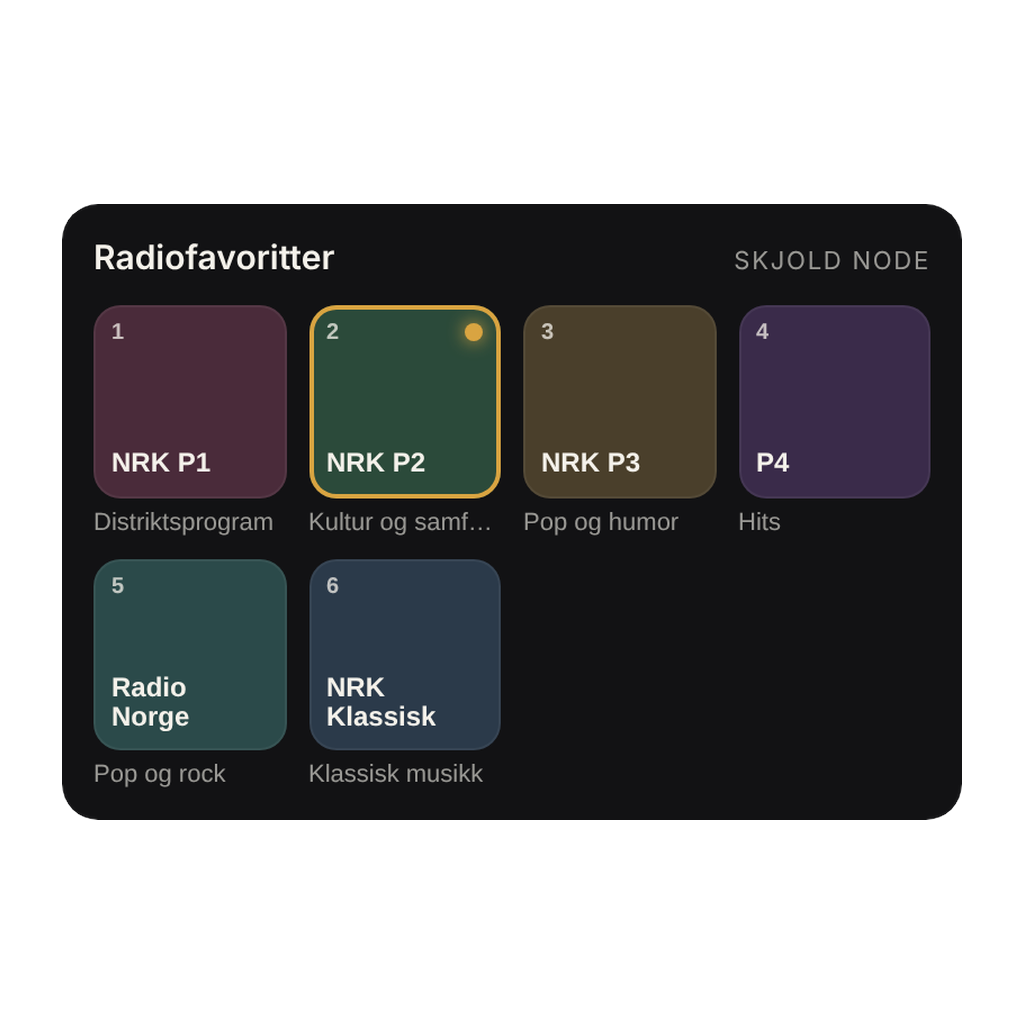
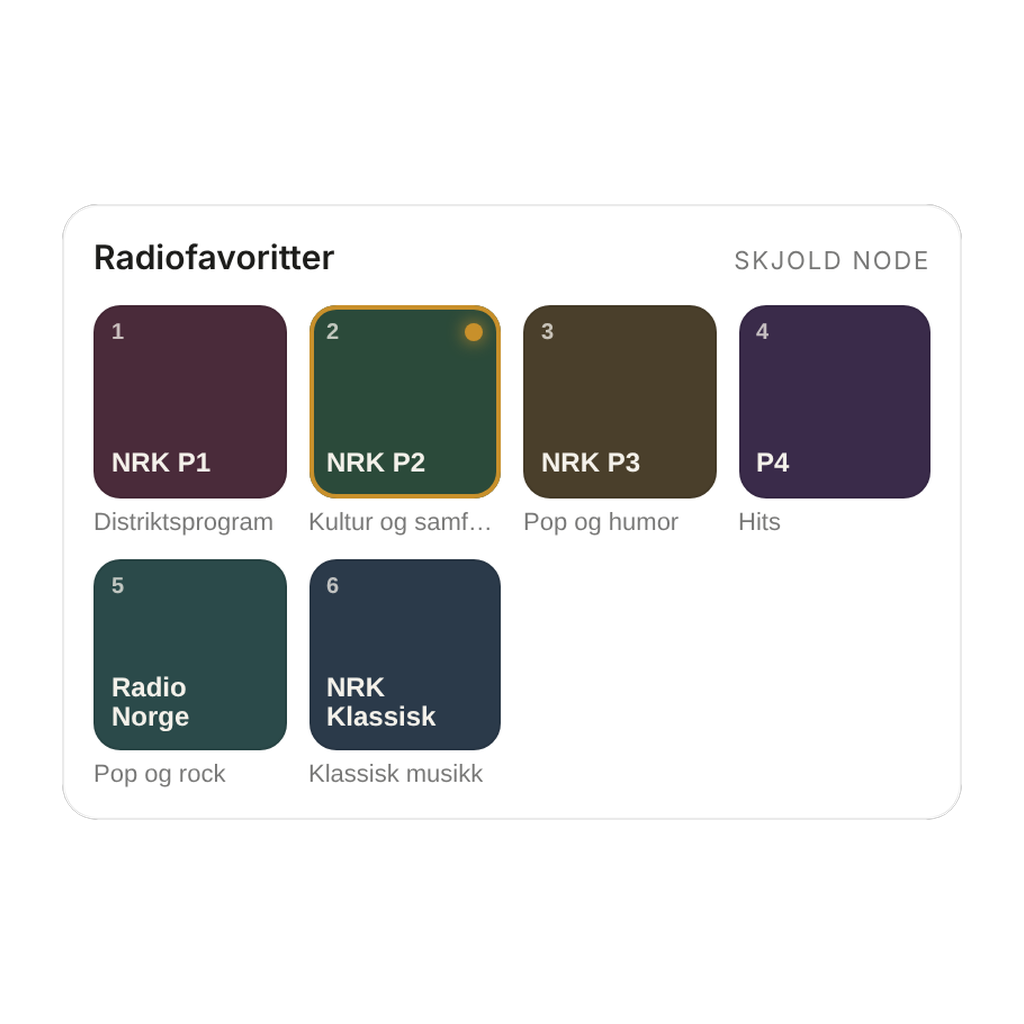
Homey 2.17.0: widgetene følger lyst/mørkt tema (egne forhåndsbilder), kort beskrivelse, nytt realistisk appbilde med S1, Node og Touch
Claude-Session: https://claude.ai/code/session_01FaJKmap7xh2tAyS84khbxV

diff --git a/homey/no.kristo.skjold/widgets/nowplaying/public/index.html b/homey/no.kristo.skjold/widgets/nowplaying/public/index.html
@@ -3,13 +3,19 @@
 <head>
 <meta charset="utf-8">
 <style>
-  :root { --acc: #d9a441; --ink: #f4f1ea; --mut: rgba(244,241,234,.62); }
+  /* Lyst og mørkt tema: Homey setter .homey-dark-mode; prefers-color-scheme som reserve. Homey-variabler brukes der de finnes. */
+  :root { --acc: #c8902b; --ink: #1d1d1b; --mut: rgba(29,29,27,.6); --card: var(--homey-background-color, #ffffff); --line: rgba(0,0,0,.08);
+          --art: #ece9e2; --track: rgba(0,0,0,.14); --veil: linear-gradient(90deg, rgba(255,255,255,.82), rgba(255,255,255,.6)); --bgfx: blur(28px) saturate(1.2) brightness(1.15); --pp-ink: #fff; --pp: #1d1d1b; }
+  @media (prefers-color-scheme: dark) { :root:not(.homey-light-mode) { --acc: #d9a441; --ink: #f4f1ea; --mut: rgba(244,241,234,.62); --card: var(--homey-background-color, #121214); --line: rgba(255,255,255,.06);
+          --art: #232326; --track: rgba(255,255,255,.18); --veil: linear-gradient(90deg, rgba(10,10,12,.55), rgba(10,10,12,.25)); --bgfx: blur(28px) saturate(1.3) brightness(.45); --pp-ink: #111; --pp: #f4f1ea; } }
+  .homey-dark-mode, .homey-dark-mode :root { --acc: #d9a441; --ink: #f4f1ea; --mut: rgba(244,241,234,.62); --card: var(--homey-background-color, #121214); --line: rgba(255,255,255,.06);
+          --art: #232326; --track: rgba(255,255,255,.18); --veil: linear-gradient(90deg, rgba(10,10,12,.55), rgba(10,10,12,.25)); --bgfx: blur(28px) saturate(1.3) brightness(.45); --pp-ink: #111; --pp: #f4f1ea; }
   * { box-sizing: border-box; margin: 0; }
   body { font-family: var(--homey-font-family, -apple-system, system-ui, sans-serif); color: var(--ink); }
-  .card { position: relative; overflow: hidden; border-radius: var(--homey-border-radius-default, 16px); height: 180px; background: #121214; padding: 14px; display: flex; gap: 14px; }
-  .bg { position: absolute; inset: -30px; background-size: cover; background-position: center; filter: blur(28px) saturate(1.3) brightness(.45); transform: scale(1.1); transition: background-image .4s; }
-  .bg::after { content: ''; position: absolute; inset: 0; background: linear-gradient(90deg, rgba(10,10,12,.55), rgba(10,10,12,.25)); }
-  .art { position: relative; flex: none; width: 152px; height: 152px; border-radius: 12px; background: #232326 center/cover no-repeat; box-shadow: 0 10px 28px rgba(0,0,0,.45); display: flex; align-items: center; justify-content: center; }
+  .card { position: relative; overflow: hidden; border-radius: var(--homey-border-radius-default, 16px); height: 180px; background: var(--card); box-shadow: inset 0 0 0 1px var(--line); padding: 14px; display: flex; gap: 14px; }
+  .bg { position: absolute; inset: -30px; background-size: cover; background-position: center; filter: var(--bgfx); transform: scale(1.1); transition: background-image .4s; }
+  .bg::after { content: ''; position: absolute; inset: 0; background: var(--veil); }
+  .art { position: relative; flex: none; width: 152px; height: 152px; border-radius: 12px; background: var(--art) center/cover no-repeat; box-shadow: 0 10px 28px rgba(0,0,0,.45); display: flex; align-items: center; justify-content: center; }
   .art svg { width: 54px; height: 54px; opacity: .5; }
   .col { position: relative; flex: 1; min-width: 0; display: flex; flex-direction: column; }
   .top { display: flex; align-items: center; gap: 8px; font-size: 11px; letter-spacing: .08em; text-transform: uppercase; color: var(--mut); }
@@ -21,10 +27,10 @@
   .ctl { margin-top: auto; display: flex; align-items: center; gap: 10px; }
   button { border: 0; background: none; color: var(--ink); cursor: pointer; padding: 0; display: flex; align-items: center; justify-content: center; -webkit-tap-highlight-color: transparent; }
   button:active { transform: scale(.94); }
-  .pp { width: 44px; height: 44px; border-radius: 50%; background: var(--ink); color: #111; }
+  .pp { width: 44px; height: 44px; border-radius: 50%; background: var(--pp); color: var(--pp-ink); }
   .sk { width: 34px; height: 34px; }
   .vol { flex: 1; display: flex; align-items: center; gap: 8px; min-width: 0; }
-  input[type=range] { -webkit-appearance: none; appearance: none; flex: 1; min-width: 40px; height: 4px; border-radius: 2px; background: linear-gradient(90deg, var(--acc) var(--p,40%), rgba(255,255,255,.18) var(--p,40%)); outline: none; }
+  input[type=range] { -webkit-appearance: none; appearance: none; flex: 1; min-width: 40px; height: 4px; border-radius: 2px; background: linear-gradient(90deg, var(--acc) var(--p,40%), var(--track) var(--p,40%)); outline: none; }
   input[type=range]::-webkit-slider-thumb { -webkit-appearance: none; width: 16px; height: 16px; border-radius: 50%; background: var(--ink); box-shadow: 0 1px 4px rgba(0,0,0,.4); }
   .v { font-size: 12px; font-variant-numeric: tabular-nums; color: var(--mut); width: 24px; text-align: right; }
   .err { position: relative; margin: auto; text-align: center; color: var(--mut); font-size: 13px; }
@@ -34,7 +40,7 @@
 <body>
 <div class="card" id="card">
   <div class="bg" id="bg"></div>
-  <div class="art" id="art"><svg viewBox="0 0 42 46" fill="#f4f1ea"><rect x="1" y="2" width="4.6" height="22" rx="2.3"/><rect x="9" y="2" width="4.6" height="33" rx="2.3"/><rect x="18.7" y="2" width="4.6" height="42" rx="2.3"/><rect x="28.4" y="2" width="4.6" height="33" rx="2.3"/><rect x="36.4" y="2" width="4.6" height="22" rx="2.3"/></svg></div>
+  <div class="art" id="art"><svg viewBox="0 0 42 46" fill="currentColor"><rect x="1" y="2" width="4.6" height="22" rx="2.3"/><rect x="9" y="2" width="4.6" height="33" rx="2.3"/><rect x="18.7" y="2" width="4.6" height="42" rx="2.3"/><rect x="28.4" y="2" width="4.6" height="33" rx="2.3"/><rect x="36.4" y="2" width="4.6" height="22" rx="2.3"/></svg></div>
   <div class="col">
     <div class="top" id="top"><span class="dot"></span><span id="src">–</span><span class="name" id="name"></span></div>
     <div class="t" id="title">Skjold</div>
@@ -62,7 +68,7 @@ function render(s) {
   const img = s.cover || s.image;
   $('art').style.backgroundImage = img ? `url("${img}")` : '';
   $('art').querySelector('svg').style.display = img ? 'none' : '';
-  $('bg').style.backgroundImage = img ? `url("${img}")` : 'radial-gradient(circle at 30% 40%, #3a2f1c, #121214)';
+  $('bg').style.backgroundImage = img ? `url("${img}")` : 'radial-gradient(circle at 30% 40%, rgba(217,164,65,.25), var(--card))';
   $('pp').innerHTML = s.playing ? PAUSE : PLAY;
   if (!dragging) { $('vol').value = s.volume; $('vol').style.setProperty('--p', s.volume + '%'); $('vv').textContent = s.mute ? '–' : s.volume; }
 }

diff --git a/homey/no.kristo.skjold/widgets/favorites/public/index.html b/homey/no.kristo.skjold/widgets/favorites/public/index.html
@@ -3,17 +3,23 @@
 <head>
 <meta charset="utf-8">
 <style>
-  :root { --acc: #d9a441; --ink: #f4f1ea; --mut: rgba(244,241,234,.6); }
+  /* Lyst og mørkt tema: Homey setter .homey-dark-mode; prefers-color-scheme som reserve. Homey-variabler brukes der de finnes. */
+  :root { --acc: #c8902b; --ink: #1d1d1b; --mut: rgba(29,29,27,.6); --card: var(--homey-background-color, #ffffff); --line: rgba(0,0,0,.08);
+          --art: #ece9e2; --track: rgba(0,0,0,.14); --veil: linear-gradient(90deg, rgba(255,255,255,.82), rgba(255,255,255,.6)); --bgfx: blur(28px) saturate(1.2) brightness(1.15); --pp-ink: #fff; --pp: #1d1d1b; }
+  @media (prefers-color-scheme: dark) { :root:not(.homey-light-mode) { --acc: #d9a441; --ink: #f4f1ea; --mut: rgba(244,241,234,.62); --card: var(--homey-background-color, #121214); --line: rgba(255,255,255,.06);
+          --art: #232326; --track: rgba(255,255,255,.18); --veil: linear-gradient(90deg, rgba(10,10,12,.55), rgba(10,10,12,.25)); --bgfx: blur(28px) saturate(1.3) brightness(.45); --pp-ink: #111; --pp: #f4f1ea; } }
+  .homey-dark-mode, .homey-dark-mode :root { --acc: #d9a441; --ink: #f4f1ea; --mut: rgba(244,241,234,.62); --card: var(--homey-background-color, #121214); --line: rgba(255,255,255,.06);
+          --art: #232326; --track: rgba(255,255,255,.18); --veil: linear-gradient(90deg, rgba(10,10,12,.55), rgba(10,10,12,.25)); --bgfx: blur(28px) saturate(1.3) brightness(.45); --pp-ink: #111; --pp: #f4f1ea; }
   * { box-sizing: border-box; margin: 0; }
   body { font-family: var(--homey-font-family, -apple-system, system-ui, sans-serif); color: var(--ink); }
-  .card { border-radius: var(--homey-border-radius-default, 16px); background: #121214; padding: 14px; }
+  .card { border-radius: var(--homey-border-radius-default, 16px); background: var(--card); box-shadow: inset 0 0 0 1px var(--line); padding: 14px; }
   .hd { display: flex; align-items: baseline; gap: 8px; margin-bottom: 12px; }
   .hd b { font-size: 15px; font-weight: 600; }
   .hd span { margin-left: auto; font-size: 11px; letter-spacing: .08em; text-transform: uppercase; color: var(--mut); white-space: nowrap; overflow: hidden; text-overflow: ellipsis; }
   .grid { display: grid; grid-template-columns: repeat(auto-fill, minmax(84px, 1fr)); gap: 10px; }
   button { border: 0; padding: 0; background: none; color: var(--ink); cursor: pointer; text-align: left; -webkit-tap-highlight-color: transparent; }
   button:active { transform: scale(.96); }
-  .sq { position: relative; aspect-ratio: 1; border-radius: 12px; background: #232326 center/cover no-repeat; overflow: hidden; display: flex; align-items: flex-end; padding: 8px; font-size: 12px; font-weight: 600; line-height: 1.1; box-shadow: inset 0 0 0 1px rgba(255,255,255,.06); }
+  .sq { position: relative; aspect-ratio: 1; border-radius: 12px; color: #f4f1ea; background: var(--art) center/cover no-repeat; overflow: hidden; display: flex; align-items: flex-end; padding: 8px; font-size: 12px; font-weight: 600; line-height: 1.1; box-shadow: inset 0 0 0 1px var(--line); }
   .sq .n { position: absolute; top: 7px; left: 8px; font-size: 10px; opacity: .75; font-variant-numeric: tabular-nums; }
   .on .sq { box-shadow: inset 0 0 0 2px var(--acc); }
   .on .sq::after { content: ''; position: absolute; top: 8px; right: 8px; width: 8px; height: 8px; border-radius: 50%; background: var(--acc); box-shadow: 0 0 8px var(--acc); }

diff --git a/homey/no.kristo.skjold/make_app_image.py b/homey/no.kristo.skjold/make_app_image.py
@@ -1,0 +1,70 @@
+"""Appbildet for Homey: S1, Node og Touch på et bord i en stue (kompositt av renderne i branding/homey_kilde)."""
+import sys, os, random, math
+sys.path.insert(0, os.path.dirname(os.path.abspath(__file__)))
+from make_homey_images import cutout
+from PIL import Image, ImageDraw, ImageFilter, ImageChops, ImageEnhance
+K=os.path.join(os.path.dirname(os.path.abspath(__file__)), '..', '..', 'branding', 'homey_kilde') + '/'
+W,H=2000,1400; random.seed(7)
+def noise(w,h,scale,blur):
+    n=Image.effect_noise((w//scale,h//scale),64).resize((w,h),Image.BICUBIC)
+    return n.filter(ImageFilter.GaussianBlur(blur))
+# vegg: varm puss med vindu-lys fra venstre
+wall=Image.new('RGB',(W,H),(214,204,188))
+light=Image.new('L',(W,H),0); ImageDraw.Draw(light).ellipse([-700,-500,1200,1100],fill=255)
+light=light.filter(ImageFilter.GaussianBlur(320))
+wall=Image.composite(Image.new('RGB',(W,H),(242,233,216)),wall,light)
+shade=Image.new('L',(W,H),0); ImageDraw.Draw(shade).rectangle([0,0,W,H],fill=0)
+grad=Image.linear_gradient('L').rotate(90,expand=True).resize((W,H))  # mørkere mot høyre
+wall=Image.composite(Image.new('RGB',(W,H),(160,148,132)),wall,grad.point(lambda v:int(v*0.45)))
+tex=noise(W,H,3,0.6); wall=ImageChops.overlay(wall,Image.merge('RGB',[tex.point(lambda v:118+(v-128)//6)]*3))
+# vindusskygge (lys stripe) og bilde på veggen, uskarpt (dybdeskarphet)
+d=ImageDraw.Draw(wall)
+for x in (300,560): d.polygon([(x,0),(x+120,0),(x+420,880),(x+300,880)],fill=(247,239,224))
+d.rectangle([1260,170,1700,500],fill=(58,50,44)); d.rectangle([1282,192,1678,478],fill=(222,213,196))
+for i,c in enumerate([(196,120,80),(90,110,96),(214,170,110)]): d.rectangle([1320+i*120,250+i*30,1420+i*120,420],fill=c)
+# plante (silhuett, uskarp)
+pl=Image.new('RGBA',(W,H)); pd=ImageDraw.Draw(pl)
+pd.rectangle([180,700,330,880],fill=(196,176,150,255))
+for i in range(26):
+    a=random.uniform(-2.6,-0.5); r=random.uniform(150,330); x0,y0=255,705
+    x1,y1=x0+r*math.cos(a),y0+r*math.sin(a)
+    pd.line([(x0,y0),(x1,y1)],fill=(70,96,62,255),width=7)
+    pd.ellipse([x1-48,y1-26,x1+48,y1+26],fill=(78+random.randint(-12,12),112+random.randint(-12,12),70,255))
+wall.paste(pl,(0,0),pl)
+wall=wall.filter(ImageFilter.GaussianBlur(7))
+# bord: eik med årer, perspektiv-mørkning
+TOP=880
+wood=Image.new('RGB',(W,H-TOP),(128,92,62))
+gr=Image.effect_noise((W//60,(H-TOP)//2),70).resize((W,H-TOP),Image.BICUBIC).filter(ImageFilter.GaussianBlur(0.8))
+wood=ImageChops.overlay(wood,Image.merge('RGB',[gr.point(lambda v:128+(v-128)//4)]*3))
+fade=Image.linear_gradient('L').resize((W,H-TOP)); wood=Image.composite(Image.new('RGB',(W,H-TOP),(86,58,38)),wood,fade.point(lambda v:int(v*0.55)))
+wl=Image.new('L',(W,H-TOP),0); ImageDraw.Draw(wl).ellipse([-500,-400,1300,500],fill=110); wl=wl.filter(ImageFilter.GaussianBlur(200))
+wood=Image.composite(Image.new('RGB',(W,H-TOP),(176,134,96)),wood,wl)
+scene=wall.copy(); scene.paste(wood,(0,TOP))
+ImageDraw.Draw(scene).rectangle([0,TOP-6,W,TOP+4],fill=(170,124,86))
+scene=scene.convert('RGBA')
+def place(dev,w,cx,bottom,refl=0.12,shadow=170):
+    s=w/dev.width; dv=dev.resize((int(dev.width*s),int(dev.height*s)),Image.LANCZOS)
+    x,y=int(cx-dv.width/2),int(bottom-dv.height)
+    sh=Image.new('L',(W,H),0); ImageDraw.Draw(sh).ellipse([x+dv.width*.04,bottom-dv.height*.06,x+dv.width*.98,bottom+dv.height*.07],fill=shadow)
+    sh=sh.filter(ImageFilter.GaussianBlur(dv.width*.035))
+    scene.paste(Image.new('RGBA',(W,H),(28,18,10,255)),(0,0),sh)
+    # svak refleks i bordet
+    rf=dv.transpose(Image.FLIP_TOP_BOTTOM); a=rf.getchannel('A').point(lambda v:int(v*refl))
+    g=Image.linear_gradient('L').resize(rf.size).point(lambda v:255-v); a=ImageChops.multiply(a,g); rf.putalpha(a)
+    scene.alpha_composite(rf.filter(ImageFilter.GaussianBlur(3)),(x,bottom))
+    scene.alpha_composite(dv,(x,y))
+s1=cutout(K+'s1.png'); node=cutout(K+'node.png'); touch=cutout(K+'touch.png')
+place(touch,600,500,1058,refl=.08)
+place(s1,800,1150,1110)
+place(node,300,1760,1075)
+img=scene.convert('RGB')
+# varm fargetone, vignett og korn
+img=ImageEnhance.Color(img).enhance(1.06); img=ImageEnhance.Contrast(img).enhance(1.04)
+vg=Image.new('L',(W,H),0); ImageDraw.Draw(vg).ellipse([-W*.25,-H*.3,W*1.25,H*1.3],fill=255); vg=vg.filter(ImageFilter.GaussianBlur(260))
+img=Image.composite(img,Image.new('RGB',(W,H),(40,30,22)),vg.point(lambda v:int(150+v*105/255)))
+gn=Image.effect_noise((W,H),18).convert('RGB'); img=Image.blend(img,ImageChops.overlay(img,gn),0.18)
+img=img.crop((0,0,W,H)).resize((1000,700),Image.LANCZOS)
+A=os.path.join(os.path.dirname(os.path.abspath(__file__)), 'assets', 'images')
+for n, sz in (('xlarge', (1000, 700)), ('large', (500, 350)), ('small', (250, 175))):
+    img.resize(sz, Image.LANCZOS).save(os.path.join(A, n + '.png'), optimize=True)

diff --git a/homey/no.kristo.skjold/make_homey_images.py b/homey/no.kristo.skjold/make_homey_images.py
@@ -88,6 +88,4 @@ if __name__ == "__main__":
     devs = {k: cutout(os.path.join(SRC, f"{k}.png")) for k in ("s1", "node", "core", "pultforsterker")}   # touch: bilde fra designets render (touch_1_forfra_skra), ikke herfra
     for k, dev in devs.items():
         driver_image(dev, os.path.join(ROOT, "drivers", k, "assets", "images"))
-    r = room((devs["s1"], devs["node"]))
-    for name, size in (("xlarge", (1000, 700)), ("large", (500, 350)), ("small", (250, 175))):
-        r.resize(size, Image.LANCZOS).save(os.path.join(ROOT, "assets", "images", f"{name}.png"), optimize=True)
+    # appbildet lages av make_app_image.py
